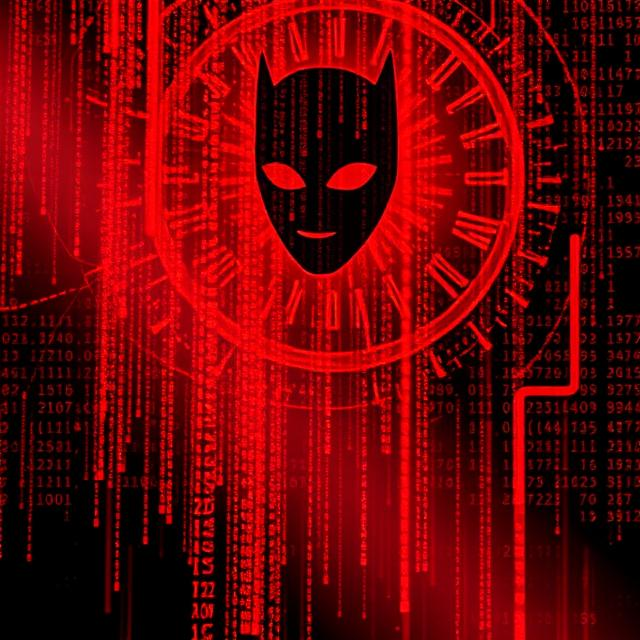
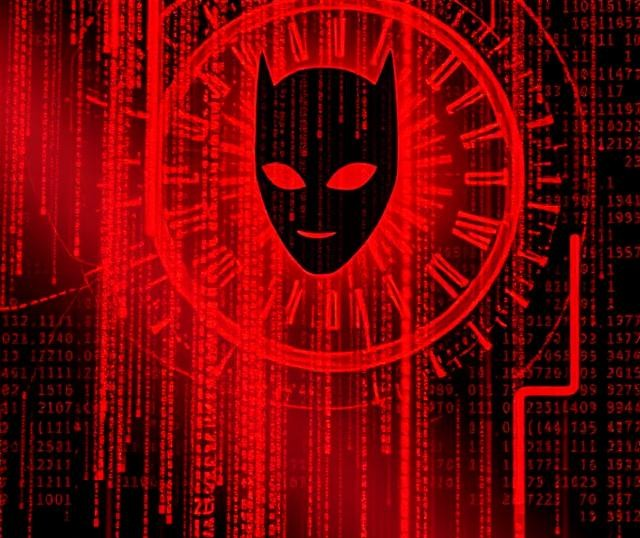
img

diff --git a/_posts/Malware-Analysis/2025-08-08-canary-tokens.md b/_posts/Malware-Analysis/2025-08-08-canary-tokens.md
@@ -2,7 +2,7 @@
 title: "CanaryTokens: Reverse engineering EXE Canarytokens to reveal the callback tripwire."
 classes: wide
 header:
-  teaser: /assets/images/malware-analysis/canary/cover.jpg
+  teaser: /assets/images/malware-analysis/amsi/cover.jpg
 ribbon: Red
 description: "Explores how Canarytokens leverage Authenticode certificates to embed an OCSP/CRL callback beacon."
 categories:
